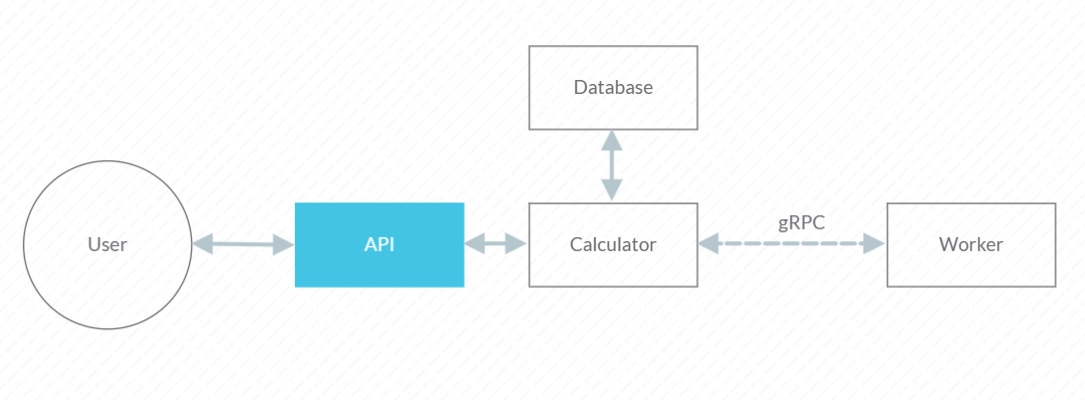
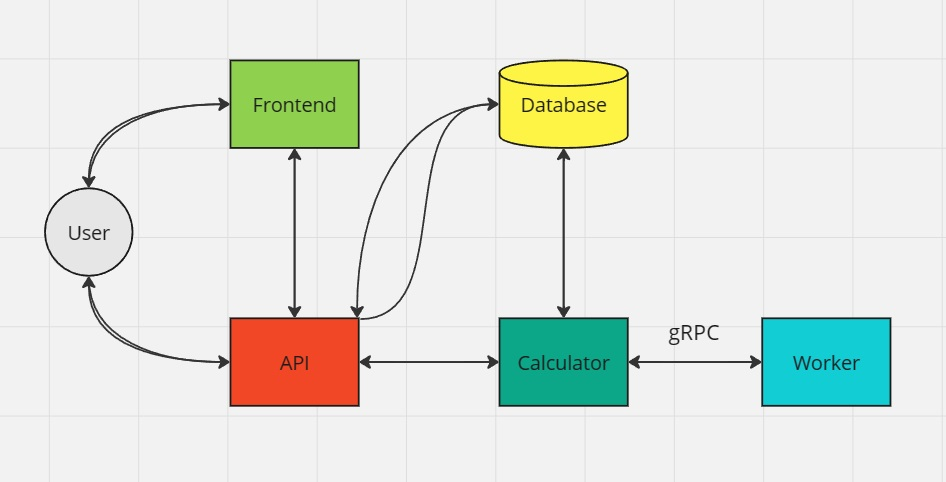
Изменения описаний в связи добавлением фронтенда

diff --git a/README.md b/README.md
@@ -54,7 +54,9 @@ go mod download
 ```shell
 go run ./cmd/main.go
 ```
-Проект запустится по адресу `http://localhost:3000`
+API проекта будет доступно по адресу `http://localhost:3000`
+
+Фронтенд проекта будет доступен по адресу `http://localhost:8080`
 
 [Назад к оглавлению](#оглавление)
 
@@ -66,7 +68,9 @@ go run ./cmd/main.go
 ```shell
 docker-compose up
 ```
-Севис будет доступен по по адресу `http://localhost:3000`
+API проекта будет доступно по адресу `http://localhost:3000`
+
+Фронтенд проекта будет доступен по адресу `http://localhost:8080`
 
 [Назад к оглавлению](#оглавление)
 
@@ -116,7 +120,8 @@ curl -X POST http://localhost:3000/api/v1/login \
 В ответ получаем JSON ответ с токеном JWT
 ```json
 {
-  "token": "eyJhbGciOiJIUzI1NiIsInR5cCI6IkpXVCJ9.eyJleHAiOjE3MTI2NDIxNjksImlhdCI6MTcxMjU1NTc2OSwibG9naW4iOiJhZG1pbiIsIm5iZiI6MTcxMjU1NTc2OSwidXNlcl9pZCI6MX0.dYVKp5H8MY3zaV988hSk_YNEsrS_Kac0tRwpxWhVUdc"
+  "token": "eyJhbGciOiJIUzI1NiIsInR5cCI6IkpXVCJ9.eyJleHAiOjE3MTM1MTkzNDEsImlhdCI6MTcxMzQzMjk0MSwibG9naW4iOiJhZG1pbiIsIm5iZiI6MTcxMzQzMjk0MSwidXNlcl9pZCI6MX0.mOulsN0EZojqUPGGQ9_ONK4nGYiYlQQ_-CIyODUGG60",
+  "user_id": "1"
 }
 ```
 [Назад к оглавлению](#оглавление)
@@ -146,7 +151,8 @@ curl -X GET http://localhost:3000/api/v1/get-expressions \
 -H 'Authorization: Bearer {{jwt}}'
 ```
 Здесь вместо {{jwt}} должен быть вставлен выданный токен JWT
-В ответ получаем JSON список выражений
+В ответ получаем JSON список выражений (по умолчанию 100 последних)
+
 ```json
 [
   {
@@ -157,6 +163,15 @@ curl -X GET http://localhost:3000/api/v1/get-expressions \
   }
 ]
 ```
+
+Доступен не обязательный запрос с пагинацией где: 
+
+`page` - номер страницы, `limit` - количество выражений на странице
+```shell
+curl -X GET http://localhost:3000/api/v1/get-expressions?page=1&limit=10 \
+-H 'Authorization: Bearer {{jwt}}'
+```
+
 [Назад к оглавлению](#оглавление)
 
 ---
@@ -227,10 +242,12 @@ curl -X GET http://localhost:3000/api/v1/monitoring
 
 ---
 ## Описание структуры проекта в целом
-![Схема проекта](./images/Schema.jpg)
+[Схема проекта](https://miro.com/welcomeonboard/Z1JJeWtWZmh0Zmk1T3VlSG9JQ29EczhCMmo1cVhxNGRTRFM3TDhDZDAxWUhvcUJoMFFHWTlWN3ZxaTFPa2Q1SXwzNDU4NzY0NTMxMTc0NTI2MTQwfDI=?share_link_id=118493269374)
+![](./images/Schema.jpg)
 
 ### Общее описание структуры
 
+- Frontend - Web-приложение
 - API Взаимодействие с пользователем (регистрация, аутентификация, получение выражений)
 - Calulator - Распределитель задач и хаб взаимодействия между базой данных и Worker-оми
 - Database - База данных, для хранения данных о пользователях и сохранения таймаутов вычислений, результатов выполнения операций.
@@ -244,7 +261,7 @@ curl -X GET http://localhost:3000/api/v1/monitoring
 - [Go](https://go.dev/) - изучаемый язык.
 - [Sqlite](https://www.sqlite.org/) - база данных. Для данного проека используется SQLite. Другие базы данных, для такого проекта, считаю излишними.
 - [Gorm](https://gorm.io/) - ORM. Первое использование, было интересно попробовать и разобраться как с ним работать.
-- [Gin](https://gin-gonic.com/) - маршрутизатор. Опять-же, это первое использоание этого пакета. (В целом считаю его излишним, но было интересно попробовать, поэтому выбрал его)
+- [Gin](https://gin-gonic.com/) - маршрутизатор. Опять-же, это первое использоание этого пакета.
 - [JWT](https://github.com/golang-jwt/jwt) - для авторизации и аутентификации пользователей.
 
 [Назад к оглавлению](#оглавление)
